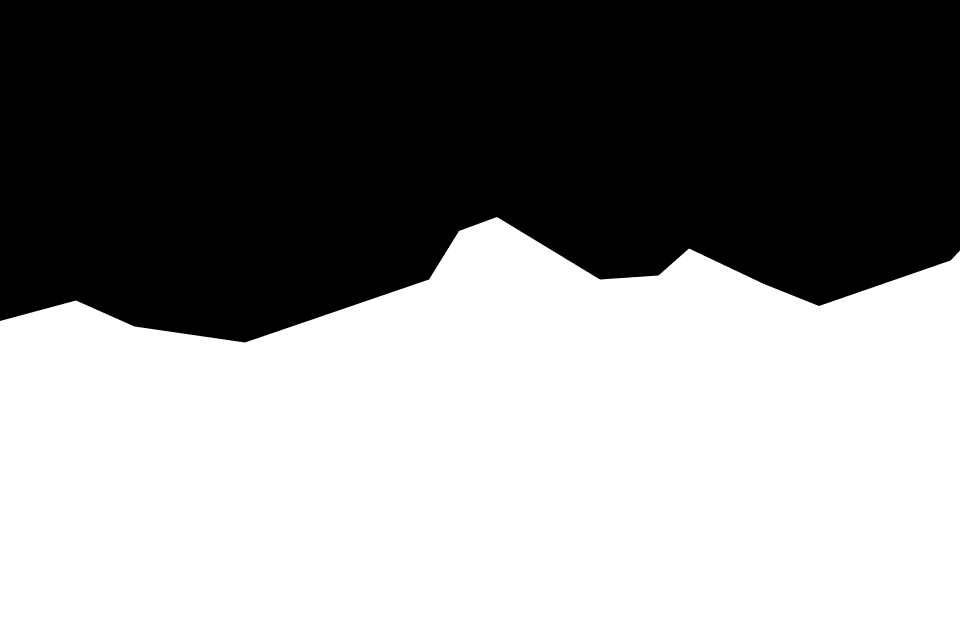
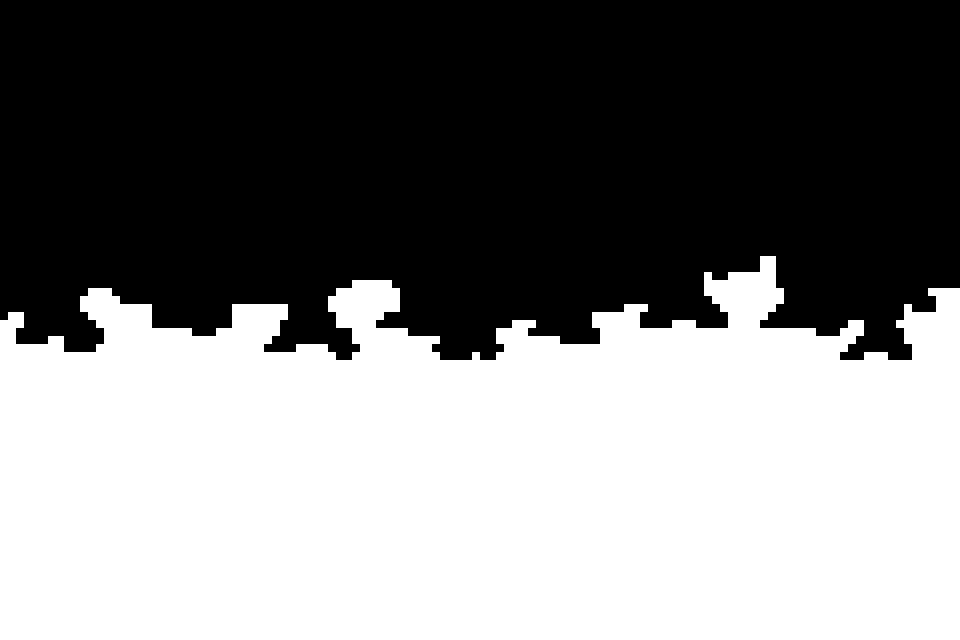
Développement des 3 mondes en cours

Changed region(s): [[0.0, 0.3438, 1.0, 0.5625]]

diff --git a/main.py b/main.py
@@ -1,7 +1,17 @@
+"""
+Nom du projet : Pixel Fall
+Auteur : Sibylle Ménard - Eva Wang-Cheng - Inès Choron
+Date début : 13/12/2025
+Date de fin : 11/05/2026
+Description : Inspiré du jeu Undertale, Pixel Fall est un jeu de plateforme 2D 
+              où le joueur, aspiré par son ordinateur, doit explorer un monde, 
+              vaincre ou épargner des ennemis et compléter des quêtes 
+              afin d'en sortir.
+Entrée : Le joueur utilise les touches fléchées pour se déplacer
+Sortie : Le joueur doit compléter des quêtes pour progresser"""
+
 import argparse
-
 import pygame
-
 from jeu import Ecran, Gameplay
 
 parseur = argparse.ArgumentParser(description="Pixel Fall")

diff --git a/jeu/monde/chaine.py b/jeu/monde/chaine.py
@@ -4,12 +4,13 @@ Quand le perso entre dans la zone `sortie` du niveau courant, le jeu passe au
 suivant dans cette liste. Si le dernier niveau est atteint, le jeu reste dessus.
 
 Contrainte: tous les niveaux de la chaîne doivent avoir les mêmes dimensions
-(image + masques). Sinon le ratio change et le perso est rescalé entre niveaux.
+(image + masques). Sinon le ratio change et le perso est recalé entre niveaux.
 """
 
-from jeu.monde.niveaux import Depart, Foret
+from jeu.monde.niveaux import Depart, Foret, Village
 
 CHAINE = [
     Depart,
     Foret,
+    Village
 ]

diff --git a/jeu/monde/__init__.py b/jeu/monde/__init__.py
@@ -1,5 +1,5 @@
 from jeu.monde.monde import Monde
 from jeu.monde.niveau import Niveau
-from jeu.monde.niveaux import Depart, Foret
+from jeu.monde.niveaux import Depart, Foret, Village
 
-__all__ = ["Depart", "Foret", "Monde", "Niveau"]
+__all__ = ["Depart", "Foret", "Village", "Monde", "Niveau"]

diff --git a/jeu/monde/niveaux/village.py b/jeu/monde/niveaux/village.py
@@ -1,0 +1,9 @@
+from jeu.monde.niveau import Niveau
+
+class Village(Niveau):
+    def __init__(self):
+        super().__init__(
+            chemin_image="images/village.png",
+            chemin_mur="images/village_mur.png",
+            chemin_meta="images/village_meta.png",
+        )

diff --git a/jeu/monde/niveaux/__init__.py b/jeu/monde/niveaux/__init__.py
@@ -1,4 +1,5 @@
 from jeu.monde.niveaux.depart import Depart
 from jeu.monde.niveaux.foret import Foret
+from jeu.monde.niveaux.village import Village 
 
-__all__ = ["Depart", "Foret"]
+__all__ = ["Depart", "Foret", "Village"]

diff --git a/jeu/entites/perso.py b/jeu/entites/perso.py
@@ -1,8 +1,6 @@
 import pygame
 from pygame.math import Vector2
-
 from jeu import config
-
 
 class _Sprites:
     """Encapsule les 4 sprites directionnels et leurs versions redimensionnées."""

diff --git a/jeu/debug.py b/jeu/debug.py
@@ -1,6 +1,5 @@
 import pygame
 
-
 class Debug:
     """Affichage debug : overlay fuchsia des murs + hitbox du perso + spawn + sortie.
 

diff --git a/jeu/ecran.py b/jeu/ecran.py
@@ -1,6 +1,5 @@
 import pygame
 
-
 class Ecran:
     """Gère la fenêtre pygame: création, redimensionnement au ratio du monde."""
 

diff --git a/jeu/monde/niveaux/depart.py b/jeu/monde/niveaux/depart.py
@@ -1,6 +1,5 @@
 from jeu.monde.niveau import Niveau
 
-
 class Depart(Niveau):
     def __init__(self):
         super().__init__(

diff --git a/jeu/monde/niveaux/foret.py b/jeu/monde/niveaux/foret.py
@@ -1,6 +1,5 @@
 from jeu.monde.niveau import Niveau
 
-
 class Foret(Niveau):
     def __init__(self):
         super().__init__(
